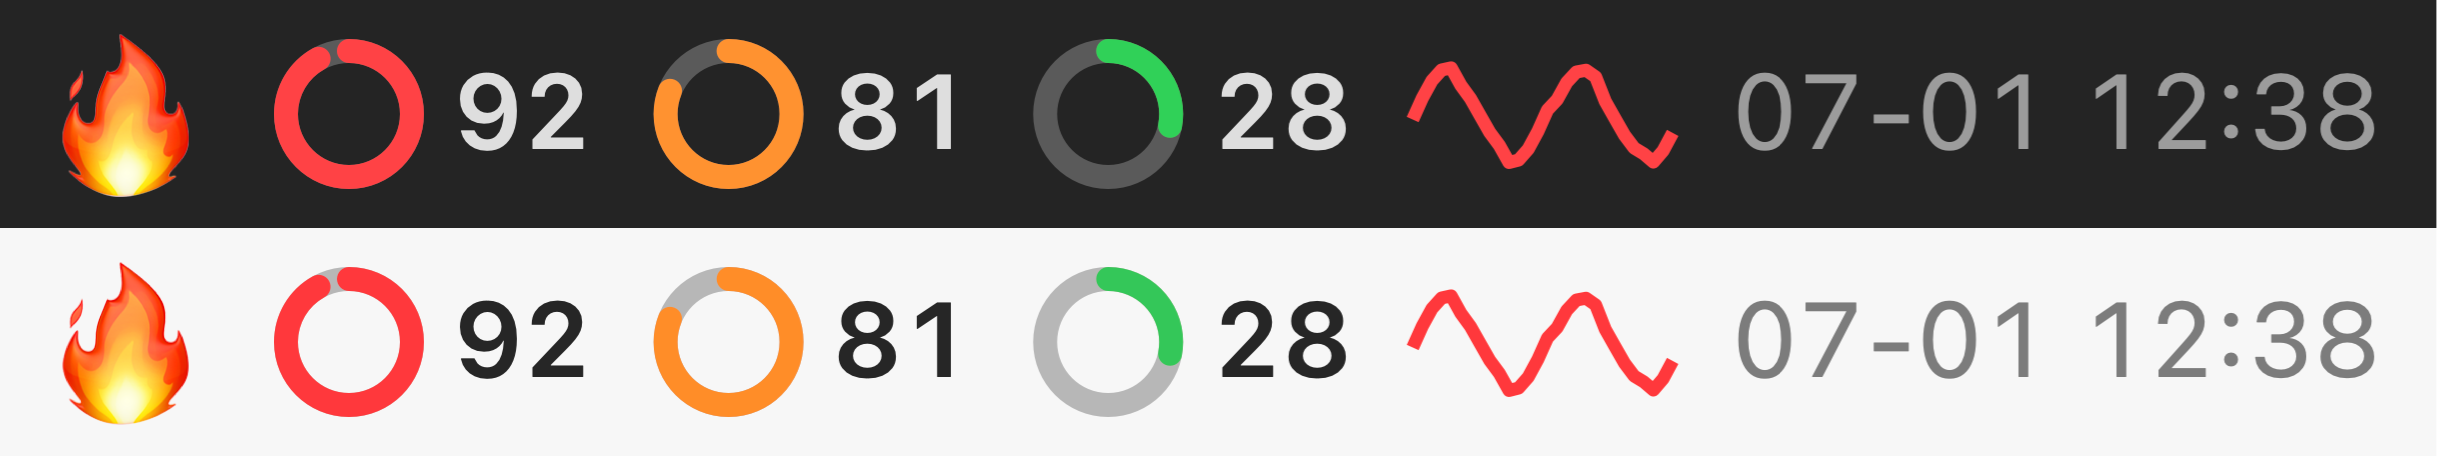
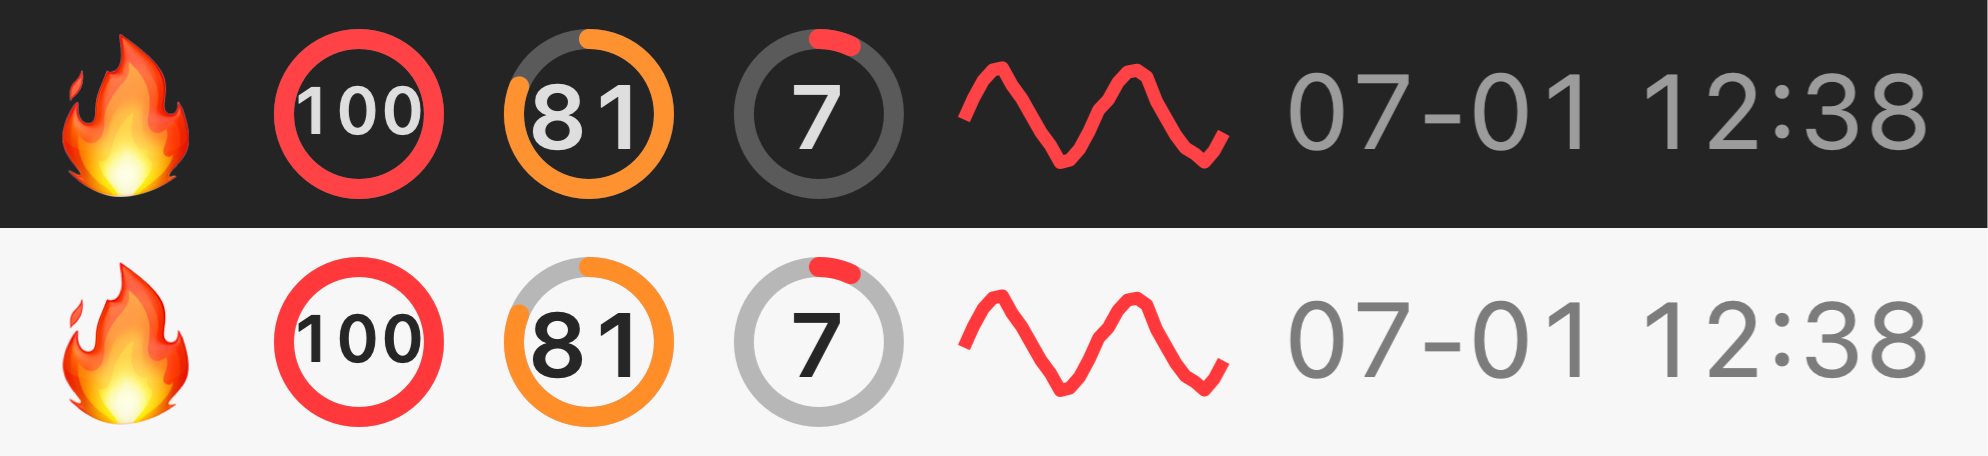
refactor: move gauge percentages inside the rings
Bigger rings (15 -> 17pt) with a thinner 2.0 stroke leave room for the number in
the middle; three-digit values shrink so "100" clears the stroke. Drops the bar
from 239pt to 194pt.

Changed region(s): [[0.0, 0.0614, 0.998, 0.4605], [0.0, 0.5526, 0.998, 0.9518]]

diff --git a/Sources/macstatus/BarRenderer.swift b/Sources/macstatus/BarRenderer.swift
@@ -9,28 +9,27 @@ import AppKit
 enum BarRenderer {
     static let height: CGFloat = 18
 
-    private static let numFont = NSFont.monospacedDigitSystemFont(ofSize: 10.5, weight: .semibold)
     private static let timeFont = NSFont.monospacedDigitSystemFont(ofSize: 10.5, weight: .regular)
 
     private static let emojiBox: CGFloat = 17
-    private static let ringD: CGFloat = 15
+    private static let ringD: CGFloat = 17
     private static let sparkW: CGFloat = 26
-    private static let ringNumGap: CGFloat = 3
     private static let groupGap: CGFloat = 6
     private static let padL: CGFloat = 2
     private static let padR: CGFloat = 3
 
+    /// The percentage sits inside the ring, so three digits ("100") shrink to
+    /// stay clear of the stroke.
+    private static func numFont(digits: Int) -> NSFont {
+        NSFont.monospacedDigitSystemFont(ofSize: digits >= 3 ? 6.6 : 9.0, weight: .semibold)
+    }
+
     static func image(cpu: Int, mem: Int, disk: Int, state: MachineState,
                       frame: FaceFrame, history: [Double], time: String) -> NSImage {
-        let cpuW = width("\(cpu)", numFont)
-        let memW = width("\(mem)", numFont)
-        let diskW = width("\(disk)", numFont)
         let timeW = width(time, timeFont)
 
         var w = padL + emojiBox + groupGap
-        w += ringD + ringNumGap + cpuW + groupGap
-        w += ringD + ringNumGap + memW + groupGap
-        w += ringD + ringNumGap + diskW + groupGap
+        w += (ringD + groupGap) * 3
         w += sparkW + groupGap
         w += timeW + padR
 
@@ -41,15 +40,13 @@ enum BarRenderer {
             drawEmoji(state.emoji, frame: frame, x: x, box: emojiBox, cy: cy)
             x += emojiBox + groupGap
 
-            func gauge(_ value: Int, _ numWidth: CGFloat, _ color: NSColor) {
-                drawRing(cx: x + ringD / 2, cy: cy, d: ringD, fraction: CGFloat(value) / 100, color: color)
-                x += ringD + ringNumGap
-                drawText("\(value)", font: numFont, color: .labelColor, x: x, cy: cy)
-                x += numWidth + groupGap
+            func gauge(_ value: Int, _ color: NSColor) {
+                drawGauge(cx: x + ringD / 2, cy: cy, value: value, color: color)
+                x += ringD + groupGap
             }
-            gauge(cpu, cpuW, usedColor(cpu))
-            gauge(mem, memW, usedColor(mem))
-            gauge(disk, diskW, freeColor(disk))
+            gauge(cpu, usedColor(cpu))
+            gauge(mem, usedColor(mem))
+            gauge(disk, freeColor(disk))
 
             drawSparkline(history, x: x, cy: cy, w: sparkW, h: 11, color: usedColor(cpu))
             x += sparkW + groupGap
@@ -89,9 +86,10 @@ enum BarRenderer {
         ctx?.restoreGState()
     }
 
-    private static func drawRing(cx: CGFloat, cy: CGFloat, d: CGFloat, fraction: CGFloat, color: NSColor) {
-        let lineWidth: CGFloat = 2.4
-        let r = d / 2 - lineWidth / 2
+    /// Ring gauge with the percentage printed inside it.
+    private static func drawGauge(cx: CGFloat, cy: CGFloat, value: Int, color: NSColor) {
+        let lineWidth: CGFloat = 2.0
+        let r = ringD / 2 - lineWidth / 2
         let center = NSPoint(x: cx, y: cy)
 
         let track = NSBezierPath()
@@ -100,14 +98,23 @@ enum BarRenderer {
         NSColor.tertiaryLabelColor.setStroke()
         track.stroke()
 
-        let f = max(0, min(1, fraction))
-        guard f > 0.001 else { return }
-        let arc = NSBezierPath()
-        arc.appendArc(withCenter: center, radius: r, startAngle: 90, endAngle: 90 - 360 * f, clockwise: true)
-        arc.lineWidth = lineWidth
-        arc.lineCapStyle = .round
-        color.setStroke()
-        arc.stroke()
+        let f = max(0, min(1, CGFloat(value) / 100))
+        if f > 0.001 {
+            let arc = NSBezierPath()
+            arc.appendArc(withCenter: center, radius: r, startAngle: 90, endAngle: 90 - 360 * f, clockwise: true)
+            arc.lineWidth = lineWidth
+            arc.lineCapStyle = .round
+            color.setStroke()
+            arc.stroke()
+        }
+
+        let text = "\(value)"
+        let str = NSAttributedString(string: text, attributes: [
+            .font: numFont(digits: text.count),
+            .foregroundColor: NSColor.labelColor,
+        ])
+        let sz = str.size()
+        str.draw(at: NSPoint(x: cx - sz.width / 2, y: cy - sz.height / 2))
     }
 
     private static func drawText(_ s: String, font: NSFont, color: NSColor, x: CGFloat, cy: CGFloat) {

diff --git a/Sources/macstatus/main.swift b/Sources/macstatus/main.swift
@@ -56,7 +56,8 @@ if CommandLine.arguments.contains("--bar") {
         let t = Double(i)
         return 45.0 + 40.0 * sin(t * 0.45) + Double(i % 5) * 2.0
     }
-    let bar = BarRenderer.image(cpu: 92, mem: 81, disk: 28, state: .onFire,
+    // 100 / 81 / 7 exercises three-, two- and one-digit fitting inside the rings.
+    let bar = BarRenderer.image(cpu: 100, mem: 81, disk: 7, state: .onFire,
                                 frame: .still, history: history, time: "07-01 12:38")
     let scale: CGFloat = 5
     let margin: CGFloat = 12

diff --git a/README.md b/README.md
@@ -12,7 +12,7 @@
 | `MEM` | 内存占用百分比 | 已用 = App 内存 + 联动(wired) + 压缩，与「活动监视器」口径一致 |
 | `DISK` | 磁盘**剩余**百分比 | 真实可用空间 / 总容量，与 `df` 一致（不含可清除空间） |
 
-三个环形仪表依次是 CPU / 内存 / 磁盘剩余，环的填充即百分比、按阈值变色，末尾一条是 CPU 走势线（sparkline）。图形在深色 / 浅色菜单栏均自动适配。
+三个环形仪表依次是 CPU / 内存 / 磁盘剩余，**百分比直接显示在环内**，环的填充即数值、按阈值变色；末尾一条是 CPU 走势线（sparkline）。图形在深色 / 浅色菜单栏均自动适配。
 
 - CPU / 内存环 ≥ 75% 橙、≥ 90% 红；磁盘剩余环 ≤ 20% 橙、≤ 10% 红。
 - 末尾 CPU 走势 sparkline，直观看出「持续忙」还是「刚抖一下」。